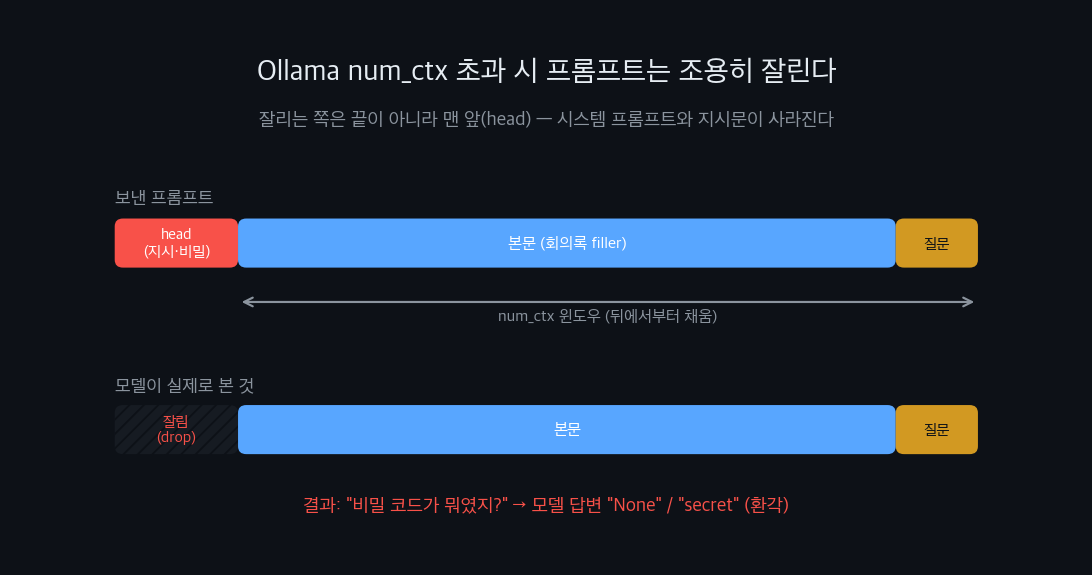
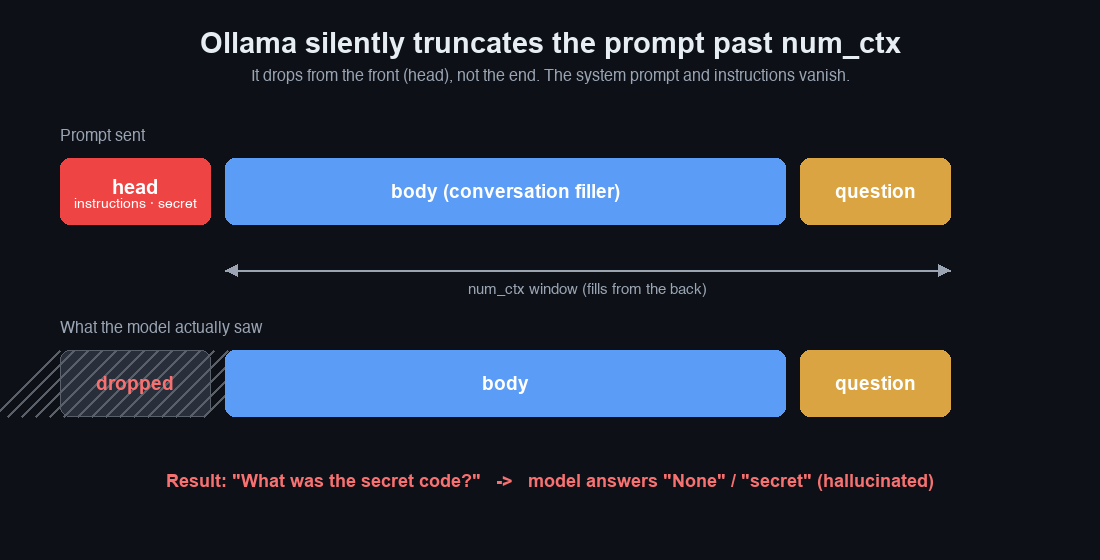
feat(quality): 신규 자동발행글 ollama-num-ctx-silent-truncation 표준 보강 + hero 영어화
- hero 재생성: 원본이 한국어 다이어그램(EN/JA/ZH에도 한국어 노출, 비영어 이미지 규칙 위반)
  → PIL로 동일 개념 영어 재작성(num_ctx 초과 시 head 무음 truncation 구조)
- 참고자료 섹션 4언어 추가(검증 공식출처 4개: Ollama api.md/context-length/faq/modelfile)
- EN description 272→162자 트림(SERP)
- FAQ는 daily-post 포함(유지)
- 빌드 230p 통과

diff --git a/src/content/blog/en/ollama-num-ctx-silent-truncation-experiment.md b/src/content/blog/en/ollama-num-ctx-silent-truncation-experiment.md
@@ -1,9 +1,8 @@
 ---
 title: 'Why My Local Agent Forgot Its System Prompt — Measuring Ollama num_ctx Silent Truncation'
 description: >-
-  My local agent started ignoring its instructions on long inputs. I hid a secret code at the top of the
-  prompt and grew the length until recall broke. Past num_ctx, Ollama trims the front of your prompt with no
-  error. And the "default is 4096" lore was wrong on my MacBook.
+  My local agent kept ignoring its system prompt on long inputs. Past num_ctx, Ollama silently trims the
+  front of the prompt — no error. I measured where it breaks.
 pubDate: '2026-06-28'
 heroImage: '../../../assets/blog/ollama-num-ctx-silent-truncation-experiment/hero.png'
 tags:
@@ -157,3 +156,10 @@ Third, the default num_ctx landing on 16384 is a product of my 16GB M1 plus Olla
 And honestly, one thing I couldn't resolve remains. I ran the same test through the OpenAI-compatible endpoint (`/v1/chat/completions`) too, where there's no way to pass `options.num_ctx` per request, and `usage.prompt_tokens` reported a different number from `/api/generate`'s `prompt_eval_count` (3464 versus 2384 for the same text). On top of that, on my machine the head survived even on long input and recall worked. I get that the token accounting differs so the two endpoints can't be compared one-to-one, but why the truncation behavior looked different too, I can't cleanly explain. Either way, [a reported issue where num_ctx isn't honored on the OpenAI-compatible API and it silently truncates at 4096](https://github.com/ollama/ollama/issues/2714) does exist, so if you go through `/v1`, remember you're fully at the mercy of the server default (`OLLAMA_CONTEXT_LENGTH`).
 
 It's the same thread as [tracking load_duration during cold starts](/en/blog/en/local-llm-cold-start-load-duration-experiment). The numbers Ollama quietly tucks into each response, however thinly documented, are the most honest clues to its real behavior. Just as `load_duration` snitched on cold starts, `prompt_eval_count` snitches on truncation. If you're running local models seriously, give these numbers a look.
+
+## References
+
+- [Ollama API reference](https://github.com/ollama/ollama/blob/main/docs/api.md) — Shows `num_ctx` inside the request `options`, which overrides the Modelfile's context size per request.
+- [Ollama context length docs](https://docs.ollama.com/context-length) — How the default context window scales with available memory (4k under 24 GiB VRAM, larger above).
+- [Ollama FAQ](https://docs.ollama.com/faq) — Default context window settings and the note that the oldest messages drop first when context overflows.
+- [Ollama Modelfile reference](https://docs.ollama.com/modelfile) — Using `PARAMETER num_ctx` to bake a fixed context size into a model.

diff --git a/src/content/blog/ja/ollama-num-ctx-silent-truncation-experiment.md b/src/content/blog/ja/ollama-num-ctx-silent-truncation-experiment.md
@@ -156,3 +156,10 @@ def guarded_generate(prompt, num_ctx=8192, model="melavisions/gemma4:latest"):
 そして正直、解けなかったものが一つ残った。OpenAI互換エンドポイント(`/v1/chat/completions`)でも同じテストを回したが、ここでは`options.num_ctx`をリクエストごとに渡す方法がなく、`usage.prompt_tokens`が`/api/generate`の`prompt_eval_count`と違う数(同じテキストなのに3464対2384)で出た。しかも私のマシンでは長い入力でもheadが生き残ってrecallできた。トークン集計方式が違うので二つのエンドポイントを1:1で比べられないところまではわかるが、なぜ切り落としの挙動まで違って見えたのかは綺麗に説明できない。ただ[OpenAI互換APIでnum_ctxが効かず4096で無言に切られるという報告](https://github.com/ollama/ollama/issues/2714)が実際にあるので、`/v1`経路を使うならサーバー既定値(`OLLAMA_CONTEXT_LENGTH`)に全面的に依存する点は覚えておくといい。
 
 [コールドスタート時にload_durationを追跡した](/ja/blog/ja/local-llm-cold-start-load-duration-experiment)ときと同じ筋だ。Ollamaが応答にそっと添えて返す数字たちは、ドキュメントにあまり書かれていなくても、実挙動を追う一番正直な手がかりだ。`load_duration`がコールドスタートを密告したように、`prompt_eval_count`は切り落としを密告する。ローカルモデルを本気で回すなら、この数字たちを一度のぞいてみることをすすめる。
+
+## 参考資料
+
+- [Ollama APIリファレンス](https://github.com/ollama/ollama/blob/main/docs/api.md) — リクエストの`options`内の`num_ctx`でModelfileのコンテキストサイズをリクエストごとに上書きする方法。
+- [Ollamaコンテキスト長ドキュメント](https://docs.ollama.com/context-length) — 既定のコンテキストウィンドウが利用可能メモリに応じてどう決まるか(24GiB VRAM未満で4k、それ以上はより大きく)。
+- [Ollama FAQ](https://docs.ollama.com/faq) — 既定のコンテキストウィンドウ設定と、コンテキストが溢れると最も古いメッセージから落ちるという記述。
+- [Ollama Modelfileリファレンス](https://docs.ollama.com/modelfile) — `PARAMETER num_ctx`で固定のコンテキストサイズをモデルに焼き込む方法。

diff --git a/src/content/blog/ko/ollama-num-ctx-silent-truncation-experiment.md b/src/content/blog/ko/ollama-num-ctx-silent-truncation-experiment.md
@@ -158,3 +158,10 @@ def guarded_generate(prompt, num_ctx=8192, model="melavisions/gemma4:latest"):
 그리고 솔직히 못 푼 게 하나 남았다. OpenAI 호환 엔드포인트(`/v1/chat/completions`)로도 같은 테스트를 돌려봤는데, 여기선 `options.num_ctx`를 요청마다 줄 방법이 없고 `usage.prompt_tokens`가 `/api/generate`의 `prompt_eval_count`와 다른 숫자(같은 텍스트인데 3464 대 2384)로 찍혔다. 게다가 내 머신에선 긴 입력에서도 head가 살아남아 recall이 됐다. 토큰 집계 방식이 달라서 두 엔드포인트를 1:1로 비교할 수 없다는 것까진 알겠는데, 왜 잘림 거동까지 달라 보였는지는 깔끔하게 설명하지 못하겠다. 다만 [OpenAI 호환 API에서 num_ctx가 안 먹혀 4096으로 조용히 잘린다는 이슈](https://github.com/ollama/ollama/issues/2714)가 실제로 보고돼 있으니, `/v1` 경로를 쓴다면 서버 기본값(`OLLAMA_CONTEXT_LENGTH`)에 전적으로 의존한다는 점은 기억해두는 게 좋다.
 
 [콜드 스타트 때 load_duration을 추적](/ko/blog/ko/local-llm-cold-start-load-duration-experiment)했던 것과 결이 같다. Ollama가 응답에 슬쩍 끼워 돌려주는 숫자들은 문서엔 잘 안 적혀 있어도, 실제 거동을 추적하는 가장 정직한 단서다. `load_duration`이 콜드 스타트를 일러바쳤듯, `prompt_eval_count`는 잘림을 일러바친다. 로컬 모델을 진지하게 굴릴 거면 이 숫자들을 한 번씩 들여다보길 권한다.
+
+## 참고자료
+
+- [Ollama API 레퍼런스](https://github.com/ollama/ollama/blob/main/docs/api.md) — 요청 `options` 안의 `num_ctx`로 Modelfile 컨텍스트 크기를 요청마다 덮어쓰는 방법.
+- [Ollama 컨텍스트 길이 문서](https://docs.ollama.com/context-length) — 기본 컨텍스트 윈도우가 가용 메모리에 따라 어떻게 잡히는지(24GiB VRAM 미만이면 4k, 그 이상은 더 크게).
+- [Ollama FAQ](https://docs.ollama.com/faq) — 기본 컨텍스트 윈도우 설정과, 컨텍스트가 넘치면 가장 오래된 메시지부터 떨어진다는 설명.
+- [Ollama Modelfile 레퍼런스](https://docs.ollama.com/modelfile) — `PARAMETER num_ctx`로 고정 컨텍스트 크기를 모델에 굽는 방법.

diff --git a/src/content/blog/zh/ollama-num-ctx-silent-truncation-experiment.md b/src/content/blog/zh/ollama-num-ctx-silent-truncation-experiment.md
@@ -156,3 +156,10 @@ def guarded_generate(prompt, num_ctx=8192, model="melavisions/gemma4:latest"):
 还有一件，老实说我没解开。我也用 OpenAI 兼容端点(`/v1/chat/completions`)跑了同一套测试，那里没法每次请求传 `options.num_ctx`，而且 `usage.prompt_tokens` 报出来的数和 `/api/generate` 的 `prompt_eval_count` 不一样(同一段文本，3464 对 2384)。更怪的是，在我机器上即便长输入 head 也活了下来，recall 成功。我能想通的是 token 计数方式不同、两个端点没法一比一对照，但为什么连截断行为看起来都不一样，我没法干净地解释。不过 [OpenAI 兼容 API 不认 num_ctx、在 4096 处无声截断的问题](https://github.com/ollama/ollama/issues/2714)确实有人报过，所以走 `/v1` 这条路的话，要记住你完全受制于服务端默认值(`OLLAMA_CONTEXT_LENGTH`)。
 
 这跟[冷启动时追踪 load_duration](/zh/blog/zh/local-llm-cold-start-load-duration-experiment) 是一个路子。Ollama 悄悄塞进每个响应里的那些数字，哪怕文档写得稀薄，也是追踪它真实行为最诚实的线索。就像 `load_duration` 供出了冷启动，`prompt_eval_count` 供出了截断。要是你认真在跑本地模型，不妨把这些数字一个个翻出来看看。
+
+## 参考资料
+
+- [Ollama API 参考](https://github.com/ollama/ollama/blob/main/docs/api.md) — 展示请求 `options` 里的 `num_ctx`，可在每次请求中覆盖 Modelfile 的上下文大小。
+- [Ollama 上下文长度文档](https://docs.ollama.com/context-length) — 默认上下文窗口如何随可用内存伸缩(24GiB VRAM 以下为 4k，更高则更大)。
+- [Ollama FAQ](https://docs.ollama.com/faq) — 默认上下文窗口设置，以及上下文溢出时从最旧消息开始丢弃的说明。
+- [Ollama Modelfile 参考](https://docs.ollama.com/modelfile) — 用 `PARAMETER num_ctx` 把固定的上下文大小烧进模型。